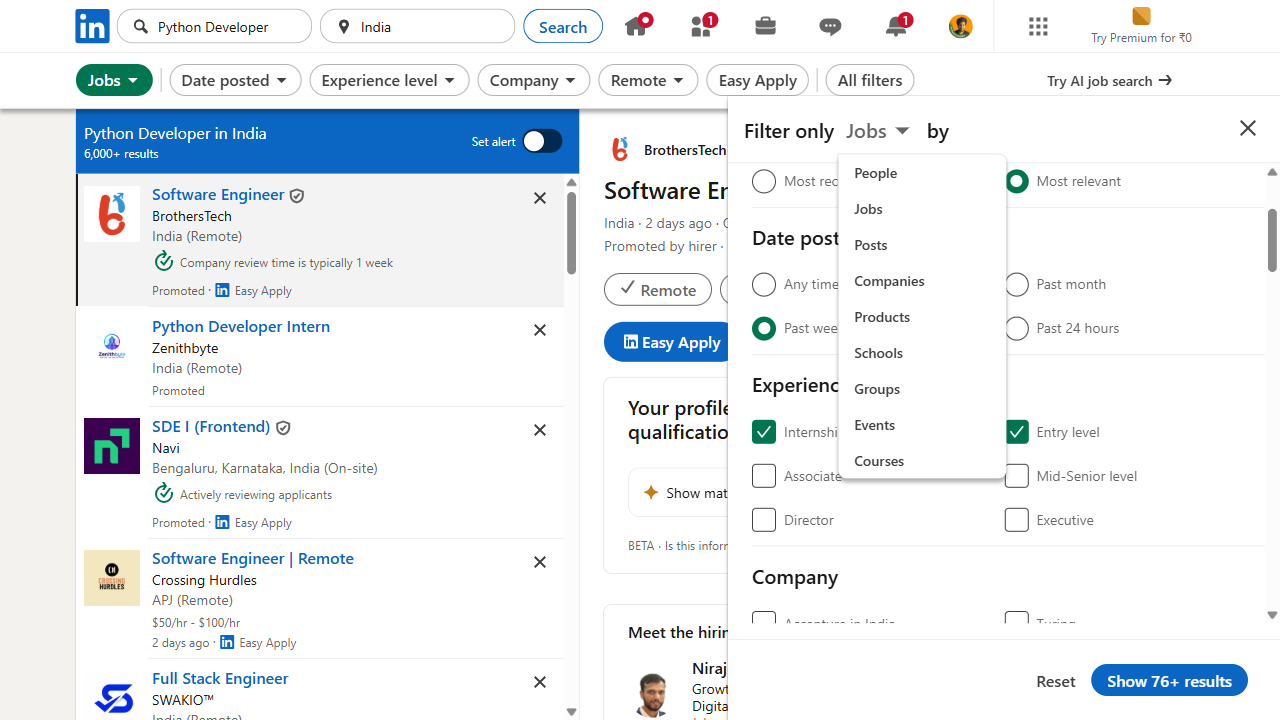
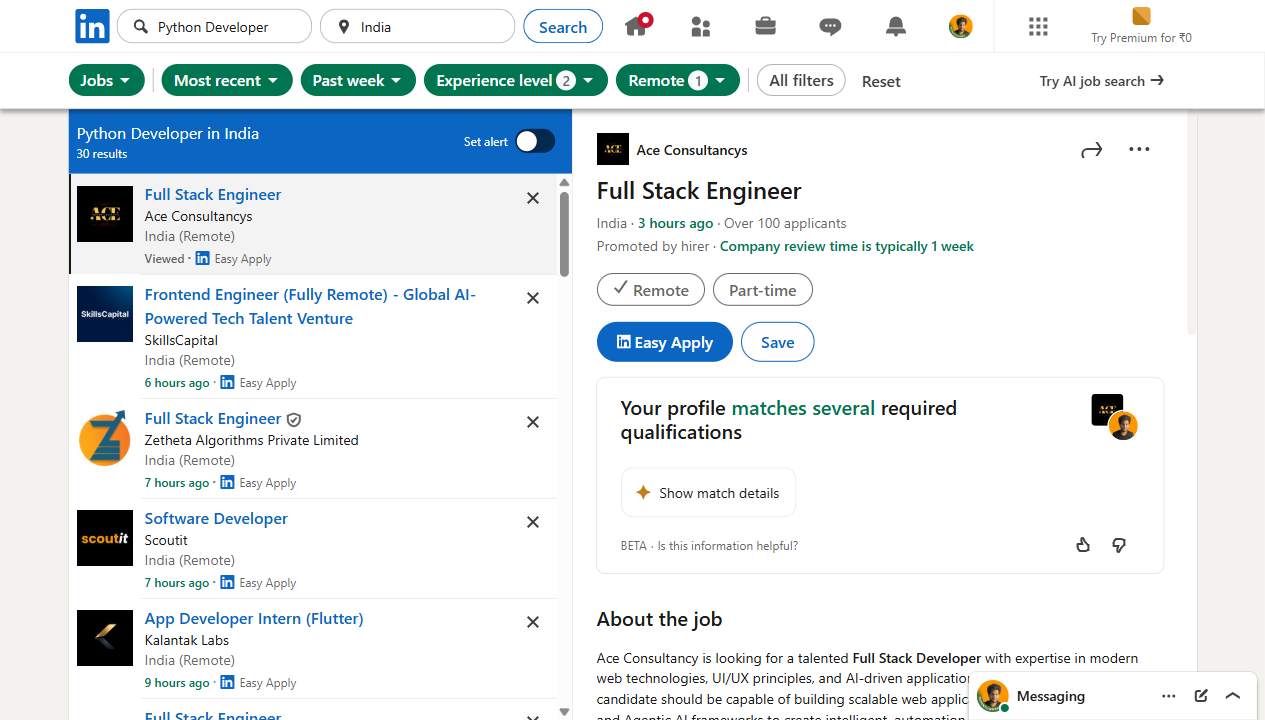
feat(config): refactor environment variable handling and add job search filters

diff --git a/app/main.py b/app/main.py
@@ -1,6 +1,17 @@
 from pathlib import Path
 
-from config.config import HEADLESS
+from config.config import (
+    HEADLESS,
+    KEYWORD,
+    DATE_POSTED,
+    EXPERIENCE,
+    REMOTE,
+    EASY_APPLY,
+    SORT_BY,
+    SCRAPE_LIMIT,
+    JOBS_CSV_PATH,
+    JOBS_JSON_PATH,
+)
 from browser.browser_manager import BrowserManager
 from linkedin.login import LinkedInLogin
 from linkedin.profile import LinkedInProfile
@@ -51,20 +62,22 @@ def main():
 
         jobs.open()
 
-        jobs.search("Python Developer")
+        jobs.search(KEYWORD)
 
         # -----------------------
         # Apply Filters ONE AT A TIME (each confirms via its own
-        # "Show results" click). LinkedIn's panel resets earlier
-        # selections during rapid batched clicks without an intermediate
-        # confirm, so sequential calls are more reliable than apply_filters().
+        # "Show results" click) — more reliable than batching them all
+        # in a single panel session.
         # -----------------------
 
-        filters.date_posted("Past week")
-        filters.experience("0-2")
-        filters.remote("Remote")
-        filters.easy_apply()
-        filters.sort_by("Most recent")
+        filters.date_posted(DATE_POSTED)
+        filters.experience(EXPERIENCE)
+        filters.remote(REMOTE)
+
+        if EASY_APPLY:
+            filters.easy_apply()
+
+        filters.sort_by(SORT_BY)
 
         browser.take_screenshot("jobs-filtered")
 
@@ -72,10 +85,10 @@ def main():
         # Scrape filtered job results
         # -----------------------
 
-        scraped_jobs = scraper.scrape(limit=25)
+        scraped_jobs = scraper.scrape(limit=SCRAPE_LIMIT)
 
-        scraper.save_to_csv(scraped_jobs, filepath="data/jobs.csv")
-        scraper.save_to_json(scraped_jobs, filepath="data/jobs.json")
+        scraper.save_to_csv(scraped_jobs, filepath=JOBS_CSV_PATH)
+        scraper.save_to_json(scraped_jobs, filepath=JOBS_JSON_PATH)
 
         logger.info(f"Total jobs scraped: {len(scraped_jobs)}")
 

diff --git a/app/config/config.py b/app/config/config.py
@@ -6,7 +6,48 @@ BASE_DIR = Path(__file__).resolve().parent.parent.parent
 
 load_dotenv(BASE_DIR / ".env")
 
-HEADLESS = os.getenv("HEADLESS") == "True"
-KEYWORD = os.getenv("KEYWORD")
-LOCATION = os.getenv("LOCATION")
-RESUME_PATH = os.getenv("RESUME_PATH")
+
+def _get_bool(key, default=False):
+    value = os.getenv(key)
+    if value is None:
+        return default
+    return value.strip().lower() in ("true", "1", "yes")
+
+
+# -----------------------
+# Browser
+# -----------------------
+
+HEADLESS = _get_bool("HEADLESS", default=False)
+
+# -----------------------
+# Job Search
+# -----------------------
+
+KEYWORD = os.getenv("KEYWORD", "Python Developer")
+LOCATION = os.getenv("LOCATION", "")
+RESUME_PATH = os.getenv("RESUME_PATH", "")
+
+# -----------------------
+# Filters
+# Valid values match linkedin/filters.py's ID maps exactly:
+#   DATE_POSTED : "Any time" | "Past month" | "Past week" | "Past 24 hours"
+#   EXPERIENCE  : "0-1" | "0-2" | "1-3" | "2-5" | "5-10" | "10+"
+#                 (or a direct label like "Entry level")
+#   REMOTE      : "On-site" | "Remote" | "Hybrid"
+#   SORT_BY     : "Most recent" | "Most relevant"
+# -----------------------
+
+DATE_POSTED = os.getenv("DATE_POSTED", "Past week")
+EXPERIENCE = os.getenv("EXPERIENCE", "0-2")
+REMOTE = os.getenv("REMOTE", "Remote")
+EASY_APPLY = _get_bool("EASY_APPLY", default=True)
+SORT_BY = os.getenv("SORT_BY", "Most recent")
+
+# -----------------------
+# Scraper
+# -----------------------
+
+SCRAPE_LIMIT = int(os.getenv("SCRAPE_LIMIT", "25"))
+JOBS_CSV_PATH = os.getenv("JOBS_CSV_PATH", "data/jobs.csv")
+JOBS_JSON_PATH = os.getenv("JOBS_JSON_PATH", "data/jobs.json")
